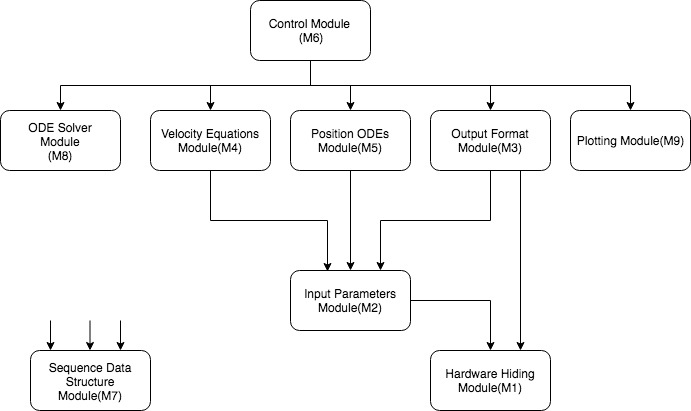
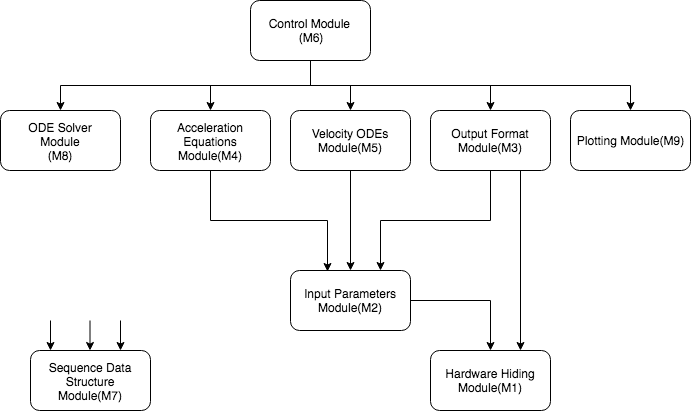
update hierarchy diagram

Changed region(s): [[0.2431, 0.292, 0.3951, 0.4088], [0.4559, 0.292, 0.5774, 0.3504]]

diff --git a/Double Pendulum/docs/Design/MG/MG.tex b/Double Pendulum/docs/Design/MG/MG.tex
@@ -428,7 +428,7 @@ R5 & \mref{mSDS}, \mref{mC}, \mref{mP}\\
   I think the explanation is that mapping M2 to two ACs was a mistake,
   especially since there are modules that do not map to any ACs.  You also have
   other modules that do not map to an AC.  You generally want every module to be
-  associated with an AC.}
+  associated with an AC.}  \an{I have added more ACs, now each module maps to one of the ACs.}
 
 \section{Use Hierarchy Between Modules} \label{SecUse}
 
@@ -452,7 +452,7 @@ because they use modules from the lower levels.
 
 \wss{Your uses hierarchy shows a module that isn't mentioned elsewhere -
   Position ODEs module.}
-
+\an{Hierarchy diagram updated.}
 %\section*{References}
 
 \bibliographystyle {plainnat}
